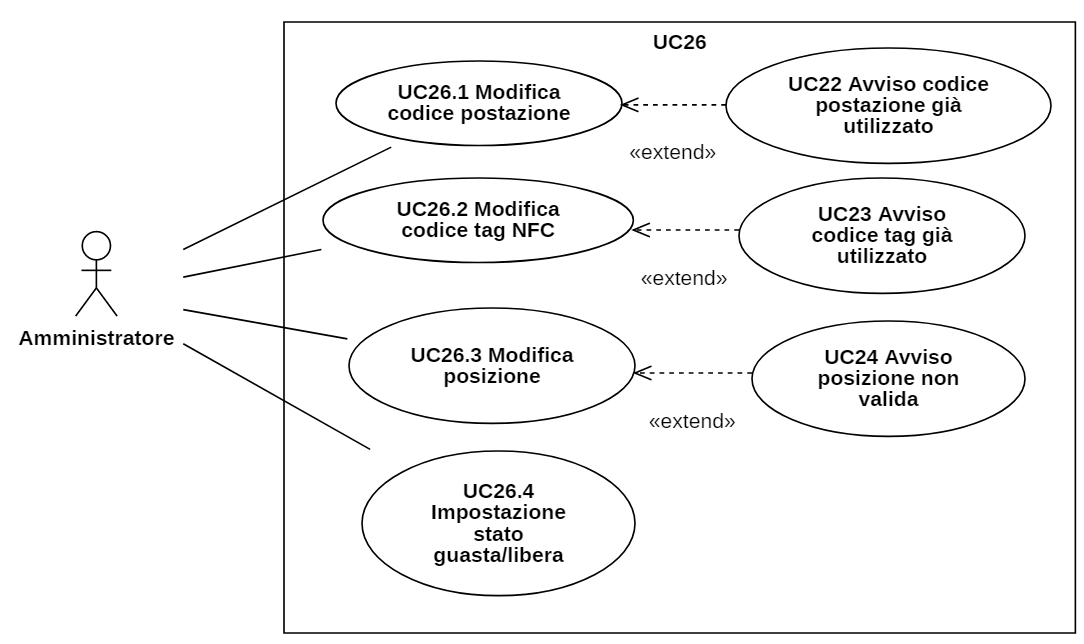
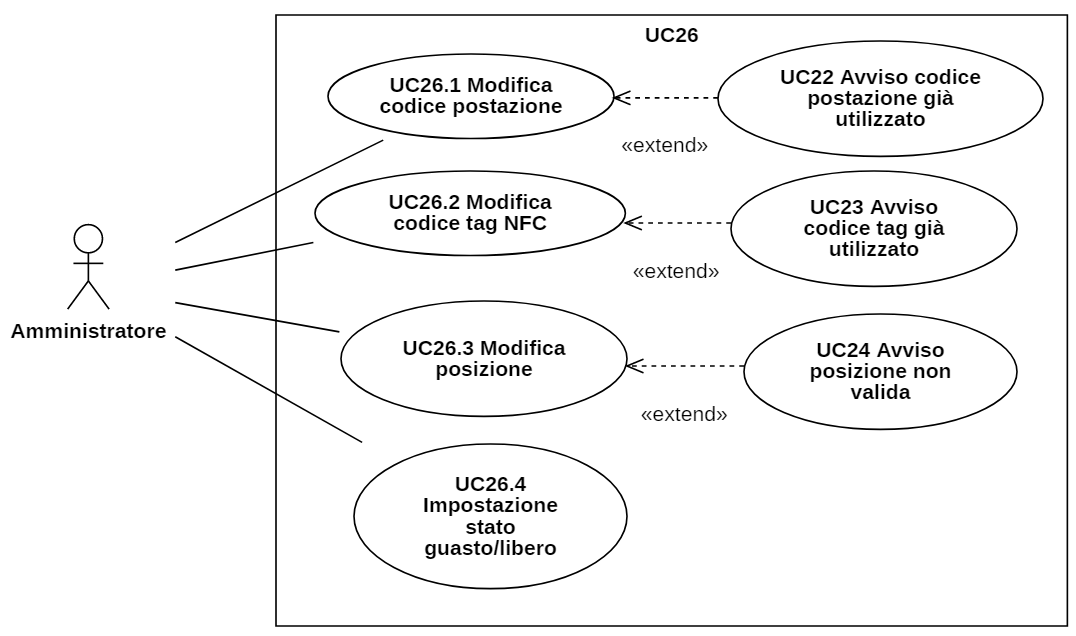
corretto titolo UC26.4

diff --git a/esterni/AnalisiDeiRequisiti/res/sections/casiUso.tex b/esterni/AnalisiDeiRequisiti/res/sections/casiUso.tex
@@ -660,7 +660,7 @@ In questa sezione sono riportati tutti i casi d'uso individuati, ordinati per at
 	\item\textbf{Scenario principale:} 
 	\begin{enumerate}
 		\item l'utente preme sul pulsante per la modifica di una postazione;
-		\item inserisce i nuovi dati. Solo se la postazione non è occupata è possibile modificarne la posizione (UC26.3) e impostarla come guasta (UC26.4);
+		\item inserisce i nuovi dati. Solo se la postazione non è occupata è possibile modificarne la posizione (UC26.3) e impostarla come guasta o libera (UC26.4);
 		\item conferma i nuovi dati premendo un pulsante;
 		\item i dati della postazione vengono modificati.
 	\end{enumerate}
@@ -765,7 +765,7 @@ In questa sezione sono riportati tutti i casi d'uso individuati, ordinati per at
 	\end{itemize}
 \end{itemize}
 
-\subsubsection{ UC26.4 - Impostazione stato guasta/libera}
+\subsubsection{ UC26.4 - Impostazione stato guasto/libero}
 \begin{itemize}
 	\item\textbf{Attori Primari:}
 	amministratore.
